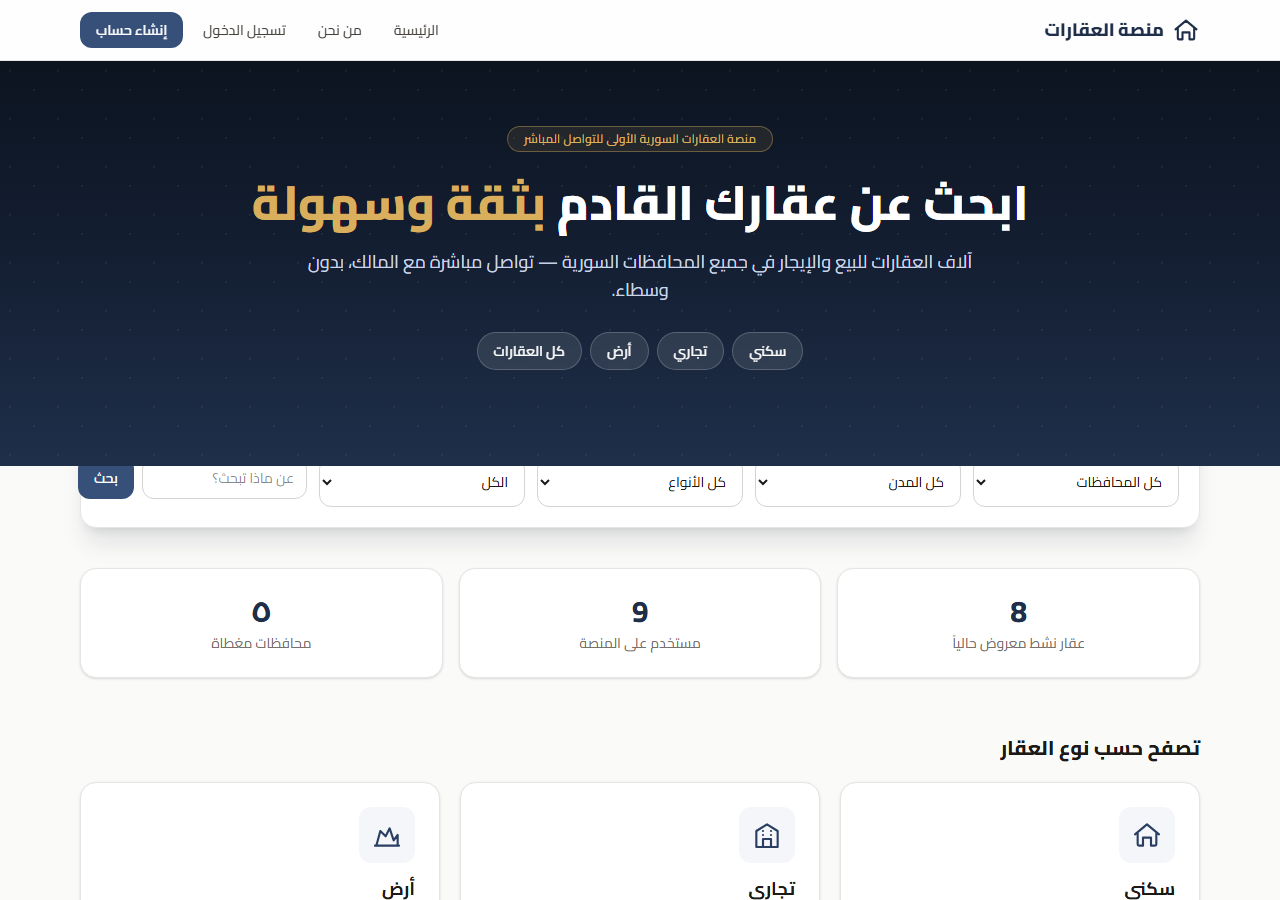
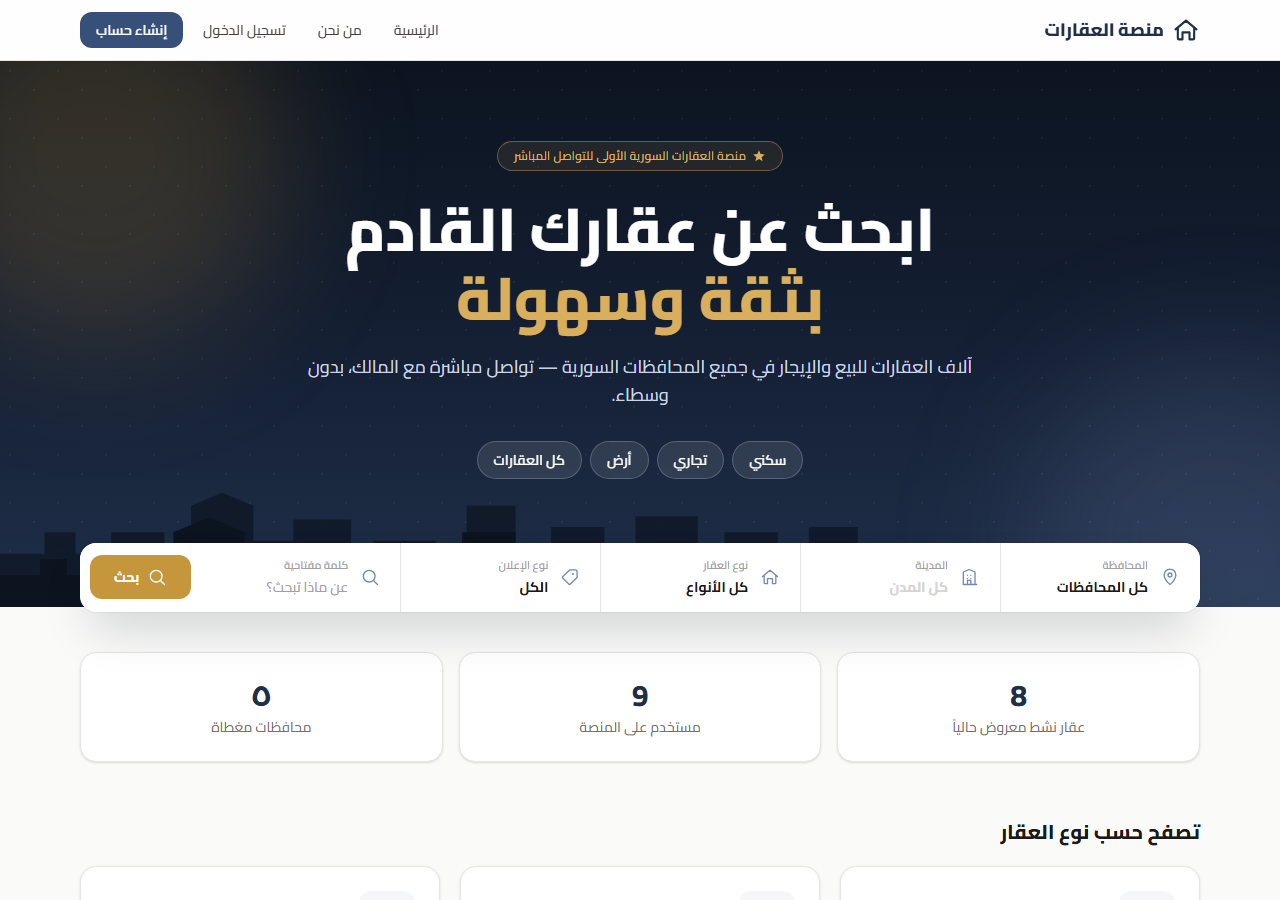
Elevate homepage hero and search bar — it was reading as a template, not a product
Replaces the plain labeled-dropdown search form with a single search
"capsule": icon-prefixed segments with vertical dividers, no visible
individual borders, one gold CTA — the pattern real property portals
(Zillow/Airbnb/Bayut) actually use instead of a generic form grid.

Hero gets real depth instead of a flat gradient: two blurred glow
orbs, a layered building-skyline silhouette at the base (an SVG
motif, no photography needed), and bigger/bolder headline type.

Re-shot the README hero screenshot against the live page — the first
two capture attempts silently wrote to a stale path from a shell-
escaping issue with the non-ASCII project directory, caught by
checking the file's mtime/size before trusting the image.

diff --git a/frontend/src/components/listing/SearchFilters.tsx b/frontend/src/components/listing/SearchFilters.tsx
@@ -13,8 +13,78 @@ interface SearchFiltersProps {
 const PROPERTY_TYPES = Object.entries(PROPERTY_TYPE_LABELS) as [PropertyType, string][];
 const TRANSACTION_TYPES = Object.entries(TRANSACTION_TYPE_LABELS) as [TransactionType, string][];
 
+const SEGMENT_CLASS =
+  'flex flex-1 items-center gap-3 px-5 py-3.5 md:border-e md:border-stone-200 md:last-of-type:border-e-0';
 const SELECT_CLASS =
-  'rounded-xl border border-stone-300 bg-white px-3 py-2.5 text-sm text-stone-900 focus:outline-none focus-visible:ring-2 focus-visible:ring-brand-600';
+  'w-full appearance-none bg-transparent text-sm font-bold text-stone-900 focus:outline-none [&>option]:font-normal';
+const LABEL_CLASS = 'block text-[11px] font-semibold text-stone-400';
+
+function PinIcon() {
+  return (
+    <svg viewBox="0 0 24 24" fill="none" className="h-5 w-5 shrink-0 text-brand-400" aria-hidden="true">
+      <path
+        d="M12 21s7-6.1 7-11.5A7 7 0 0 0 5 9.5C5 14.9 12 21 12 21Z"
+        stroke="currentColor"
+        strokeWidth="1.6"
+        strokeLinecap="round"
+        strokeLinejoin="round"
+      />
+      <circle cx="12" cy="9.5" r="2.3" stroke="currentColor" strokeWidth="1.6" />
+    </svg>
+  );
+}
+
+function BuildingIcon() {
+  return (
+    <svg viewBox="0 0 24 24" fill="none" className="h-5 w-5 shrink-0 text-brand-400" aria-hidden="true">
+      <path
+        d="M4 21V6l7-3 7 3v15M4 21h16M9 21v-5h4v5M9 10h.01M13 10h.01M9 14h.01M13 14h.01"
+        stroke="currentColor"
+        strokeWidth="1.6"
+        strokeLinecap="round"
+        strokeLinejoin="round"
+      />
+    </svg>
+  );
+}
+
+function HomeIcon() {
+  return (
+    <svg viewBox="0 0 24 24" fill="none" className="h-5 w-5 shrink-0 text-brand-400" aria-hidden="true">
+      <path
+        d="M3 11.5 12 4l9 7.5M5 10v9a1 1 0 0 0 1 1h3v-6h6v6h3a1 1 0 0 0 1-1v-9"
+        stroke="currentColor"
+        strokeWidth="1.6"
+        strokeLinecap="round"
+        strokeLinejoin="round"
+      />
+    </svg>
+  );
+}
+
+function TagIcon() {
+  return (
+    <svg viewBox="0 0 24 24" fill="none" className="h-5 w-5 shrink-0 text-brand-400" aria-hidden="true">
+      <path
+        d="m20.5 12.5-8 8a1.4 1.4 0 0 1-2 0l-7-7a1.4 1.4 0 0 1 0-2l8-8H18a2.5 2.5 0 0 1 2.5 2.5v6.5Z"
+        stroke="currentColor"
+        strokeWidth="1.6"
+        strokeLinecap="round"
+        strokeLinejoin="round"
+      />
+      <circle cx="15.5" cy="8.5" r="1.2" fill="currentColor" />
+    </svg>
+  );
+}
+
+function SearchIcon({ className = 'h-5 w-5 shrink-0 text-brand-400' }: { className?: string }) {
+  return (
+    <svg viewBox="0 0 24 24" fill="none" className={className} aria-hidden="true">
+      <circle cx="11" cy="11" r="7" stroke="currentColor" strokeWidth="1.6" />
+      <path d="m21 21-4.3-4.3" stroke="currentColor" strokeWidth="1.6" strokeLinecap="round" />
+    </svg>
+  );
+}
 
 export function SearchFilters({ governorates, cities, filters, onChange }: SearchFiltersProps) {
   const [keyword, setKeyword] = useState(filters.q ?? '');
@@ -39,106 +109,116 @@ export function SearchFilters({ governorates, cities, filters, onChange }: Searc
     onChange({ ...filters, transactionType: value || undefined });
   }
 
-  function handleKeywordSubmit(e: FormEvent<HTMLFormElement>) {
+  function handleSubmit(e: FormEvent<HTMLFormElement>) {
     e.preventDefault();
     onChange({ ...filters, q: keyword || undefined });
   }
 
   return (
-    <div className="grid grid-cols-1 gap-3 sm:grid-cols-2 lg:grid-cols-5">
-      <div className="flex flex-col gap-1.5">
-        <label htmlFor="governorate" className="text-sm font-medium text-stone-700">
-          المحافظة
-        </label>
-        <select
-          id="governorate"
-          className={SELECT_CLASS}
-          value={filters.governorateId ?? ''}
-          onChange={handleGovernorateChange}
-        >
-          <option value="">كل المحافظات</option>
-          {governorates.map((g) => (
-            <option key={g.id} value={g.id}>
-              {g.nameAr}
-            </option>
-          ))}
-        </select>
+    <form
+      onSubmit={handleSubmit}
+      className="flex flex-col divide-y divide-stone-100 rounded-2xl bg-white md:flex-row md:items-stretch md:divide-y-0"
+    >
+      <div className={SEGMENT_CLASS}>
+        <PinIcon />
+        <div className="flex-1">
+          <label htmlFor="governorate" className={LABEL_CLASS}>
+            المحافظة
+          </label>
+          <select id="governorate" className={SELECT_CLASS} value={filters.governorateId ?? ''} onChange={handleGovernorateChange}>
+            <option value="">كل المحافظات</option>
+            {governorates.map((g) => (
+              <option key={g.id} value={g.id}>
+                {g.nameAr}
+              </option>
+            ))}
+          </select>
+        </div>
       </div>
 
-      <div className="flex flex-col gap-1.5">
-        <label htmlFor="city" className="text-sm font-medium text-stone-700">
-          المدينة
-        </label>
-        <select
-          id="city"
-          className={SELECT_CLASS}
-          value={filters.cityId ?? ''}
-          onChange={handleCityChange}
-          disabled={!filters.governorateId}
-        >
-          <option value="">كل المدن</option>
-          {cities.map((c) => (
-            <option key={c.id} value={c.id}>
-              {c.nameAr}
-            </option>
-          ))}
-        </select>
+      <div className={SEGMENT_CLASS}>
+        <BuildingIcon />
+        <div className="flex-1">
+          <label htmlFor="city" className={LABEL_CLASS}>
+            المدينة
+          </label>
+          <select
+            id="city"
+            className={`${SELECT_CLASS} disabled:text-stone-300`}
+            value={filters.cityId ?? ''}
+            onChange={handleCityChange}
+            disabled={!filters.governorateId}
+          >
+            <option value="">كل المدن</option>
+            {cities.map((c) => (
+              <option key={c.id} value={c.id}>
+                {c.nameAr}
+              </option>
+            ))}
+          </select>
+        </div>
       </div>
 
-      <div className="flex flex-col gap-1.5">
-        <label htmlFor="propertyType" className="text-sm font-medium text-stone-700">
-          نوع العقار
-        </label>
-        <select id="propertyType" className={SELECT_CLASS} value={filters.propertyType ?? ''} onChange={handlePropertyTypeChange}>
-          <option value="">كل الأنواع</option>
-          {PROPERTY_TYPES.map(([value, label]) => (
-            <option key={value} value={value}>
-              {label}
-            </option>
-          ))}
-        </select>
+      <div className={SEGMENT_CLASS}>
+        <HomeIcon />
+        <div className="flex-1">
+          <label htmlFor="propertyType" className={LABEL_CLASS}>
+            نوع العقار
+          </label>
+          <select id="propertyType" className={SELECT_CLASS} value={filters.propertyType ?? ''} onChange={handlePropertyTypeChange}>
+            <option value="">كل الأنواع</option>
+            {PROPERTY_TYPES.map(([value, label]) => (
+              <option key={value} value={value}>
+                {label}
+              </option>
+            ))}
+          </select>
+        </div>
       </div>
 
-      <div className="flex flex-col gap-1.5">
-        <label htmlFor="transactionType" className="text-sm font-medium text-stone-700">
-          نوع الإعلان
-        </label>
-        <select
-          id="transactionType"
-          className={SELECT_CLASS}
-          value={filters.transactionType ?? ''}
-          onChange={handleTransactionTypeChange}
-        >
-          <option value="">الكل</option>
-          {TRANSACTION_TYPES.map(([value, label]) => (
-            <option key={value} value={value}>
-              {label}
-            </option>
-          ))}
-        </select>
+      <div className={SEGMENT_CLASS}>
+        <TagIcon />
+        <div className="flex-1">
+          <label htmlFor="transactionType" className={LABEL_CLASS}>
+            نوع الإعلان
+          </label>
+          <select id="transactionType" className={SELECT_CLASS} value={filters.transactionType ?? ''} onChange={handleTransactionTypeChange}>
+            <option value="">الكل</option>
+            {TRANSACTION_TYPES.map(([value, label]) => (
+              <option key={value} value={value}>
+                {label}
+              </option>
+            ))}
+          </select>
+        </div>
       </div>
 
-      <form onSubmit={handleKeywordSubmit} className="flex flex-col gap-1.5">
-        <label htmlFor="keyword" className="text-sm font-medium text-stone-700">
-          بحث
-        </label>
-        <div className="flex gap-2">
+      <div className={`${SEGMENT_CLASS} md:border-e-0`}>
+        <SearchIcon />
+        <div className="flex-1">
+          <label htmlFor="keyword" className={LABEL_CLASS}>
+            كلمة مفتاحية
+          </label>
           <input
             id="keyword"
             type="search"
             placeholder="عن ماذا تبحث؟"
             value={keyword}
             onChange={(e) => setKeyword(e.target.value)}
-            className={`${SELECT_CLASS} flex-1`}
+            className="w-full bg-transparent text-sm font-bold text-stone-900 placeholder:font-normal placeholder:text-stone-400 focus:outline-none"
           />
-          <button
-            type="submit"
-            className="rounded-xl bg-brand-600 px-4 py-2 text-sm font-semibold text-white hover:bg-brand-700 focus-visible:outline-none focus-visible:ring-2 focus-visible:ring-brand-600"
-          >
-            بحث
-          </button>
         </div>
-      </form>
-    </div>
+      </div>
+
+      <div className="p-2.5 md:flex md:items-center">
+        <button
+          type="submit"
+          className="flex w-full items-center justify-center gap-2 rounded-xl bg-accent-500 px-6 py-3 text-sm font-bold text-white transition-colors hover:bg-accent-600 focus-visible:outline-none focus-visible:ring-2 focus-visible:ring-accent-500 md:w-auto md:rounded-xl"
+        >
+          <SearchIcon className="h-5 w-5 shrink-0 text-white" />
+          بحث
+        </button>
+      </div>
+    </form>
   );
 }

diff --git a/frontend/src/pages/PublicSearchPage.tsx b/frontend/src/pages/PublicSearchPage.tsx
@@ -173,9 +173,18 @@ export default function PublicSearchPage() {
       <Header />
 
       {/* Hero */}
-      <section className="relative overflow-hidden bg-gradient-to-b from-brand-950 via-brand-900 to-brand-800 px-4 pb-24 pt-16 text-white">
+      <section className="relative overflow-hidden bg-gradient-to-b from-brand-950 via-brand-900 to-brand-800 px-4 pb-32 pt-20 text-white">
+        {/* Soft glow orbs for depth — no imagery needed */}
         <div
-          className="pointer-events-none absolute inset-0 opacity-[0.07]"
+          className="pointer-events-none absolute -top-24 -end-24 h-96 w-96 rounded-full bg-accent-500/20 blur-3xl"
+          aria-hidden="true"
+        />
+        <div
+          className="pointer-events-none absolute -bottom-32 -start-32 h-96 w-96 rounded-full bg-brand-400/20 blur-3xl"
+          aria-hidden="true"
+        />
+        <div
+          className="pointer-events-none absolute inset-0 opacity-[0.06]"
           style={{
             backgroundImage:
               'radial-gradient(circle at 20% 20%, white 1px, transparent 1px), radial-gradient(circle at 70% 60%, white 1px, transparent 1px)',
@@ -183,18 +192,24 @@ export default function PublicSearchPage() {
           }}
           aria-hidden="true"
         />
+
         <div className="relative mx-auto max-w-4xl text-center">
-          <span className="inline-block rounded-full border border-accent-400/40 bg-accent-400/10 px-4 py-1 text-xs font-semibold tracking-wide text-accent-400">
+          <span className="inline-flex items-center gap-1.5 rounded-full border border-accent-400/40 bg-accent-400/10 px-4 py-1.5 text-xs font-semibold tracking-wide text-accent-400">
+            <svg viewBox="0 0 24 24" fill="currentColor" className="h-3.5 w-3.5" aria-hidden="true">
+              <path d="M12 2 9.2 8.6 2 9.3l5.5 4.7L5.8 21 12 17.3 18.2 21l-1.7-7 5.5-4.7-7.2-.7L12 2Z" />
+            </svg>
             منصة العقارات السورية الأولى للتواصل المباشر
           </span>
-          <h1 className="mt-5 text-3xl font-extrabold leading-tight sm:text-5xl">
-            ابحث عن عقارك القادم <span className="text-accent-400">بثقة وسهولة</span>
+          <h1 className="mt-6 text-4xl font-extrabold leading-[1.15] sm:text-6xl">
+            ابحث عن عقارك القادم
+            <br />
+            <span className="text-accent-400">بثقة وسهولة</span>
           </h1>
-          <p className="mx-auto mt-4 max-w-2xl text-base text-brand-200 sm:text-lg">
+          <p className="mx-auto mt-5 max-w-2xl text-base text-brand-200 sm:text-lg">
             آلاف العقارات للبيع والإيجار في جميع المحافظات السورية — تواصل مباشرة مع المالك، بدون وسطاء.
           </p>
 
-          <div className="mt-7 flex flex-wrap items-center justify-center gap-2">
+          <div className="mt-8 flex flex-wrap items-center justify-center gap-2">
             {CATEGORIES.map((cat) => (
               <button
                 key={cat.type}
@@ -212,11 +227,30 @@ export default function PublicSearchPage() {
             </button>
           </div>
         </div>
+
+        {/* Skyline silhouette — a real-estate motif that reads instantly, no photography needed */}
+        <svg
+          viewBox="0 0 1440 120"
+          preserveAspectRatio="none"
+          className="pointer-events-none absolute inset-x-0 bottom-0 h-24 w-full sm:h-32"
+          aria-hidden="true"
+        >
+          <path
+            fill="currentColor"
+            className="text-brand-950/70"
+            d="M0 120V70h50v-20h35v20h40V50h60v20h30V25l35-12 35 12v33h45V38h65v32h25v-12h70v12h35V25h55v45h40V45h60v30h35V35h70v30h30v-15h60v15h35V45h55v30h50V120Z"
+          />
+          <path
+            fill="currentColor"
+            className="text-brand-950"
+            d="M0 120V90h45v-15h30v15h55v-30h40v30h25V50l40-14 40 14v40h50V60h70v30h20v-8h75v8h30V50h60v40h45V70h65v20h30V60h75v30h35v-10h65v10h40V80h55v40Z"
+          />
+        </svg>
       </section>
 
       <main className="mx-auto max-w-6xl px-4 pb-16">
         {/* Search bar, overlapping the hero */}
-        <div className="-mt-14 rounded-2xl border border-stone-200 bg-white p-5 shadow-xl shadow-brand-950/10">
+        <div className="relative -mt-16 overflow-hidden rounded-2xl bg-white shadow-2xl shadow-brand-950/20 ring-1 ring-stone-900/5">
           <SearchFilters governorates={governorates} cities={citiesForFilter} filters={filters} onChange={handleFiltersChange} />
         </div>
 
